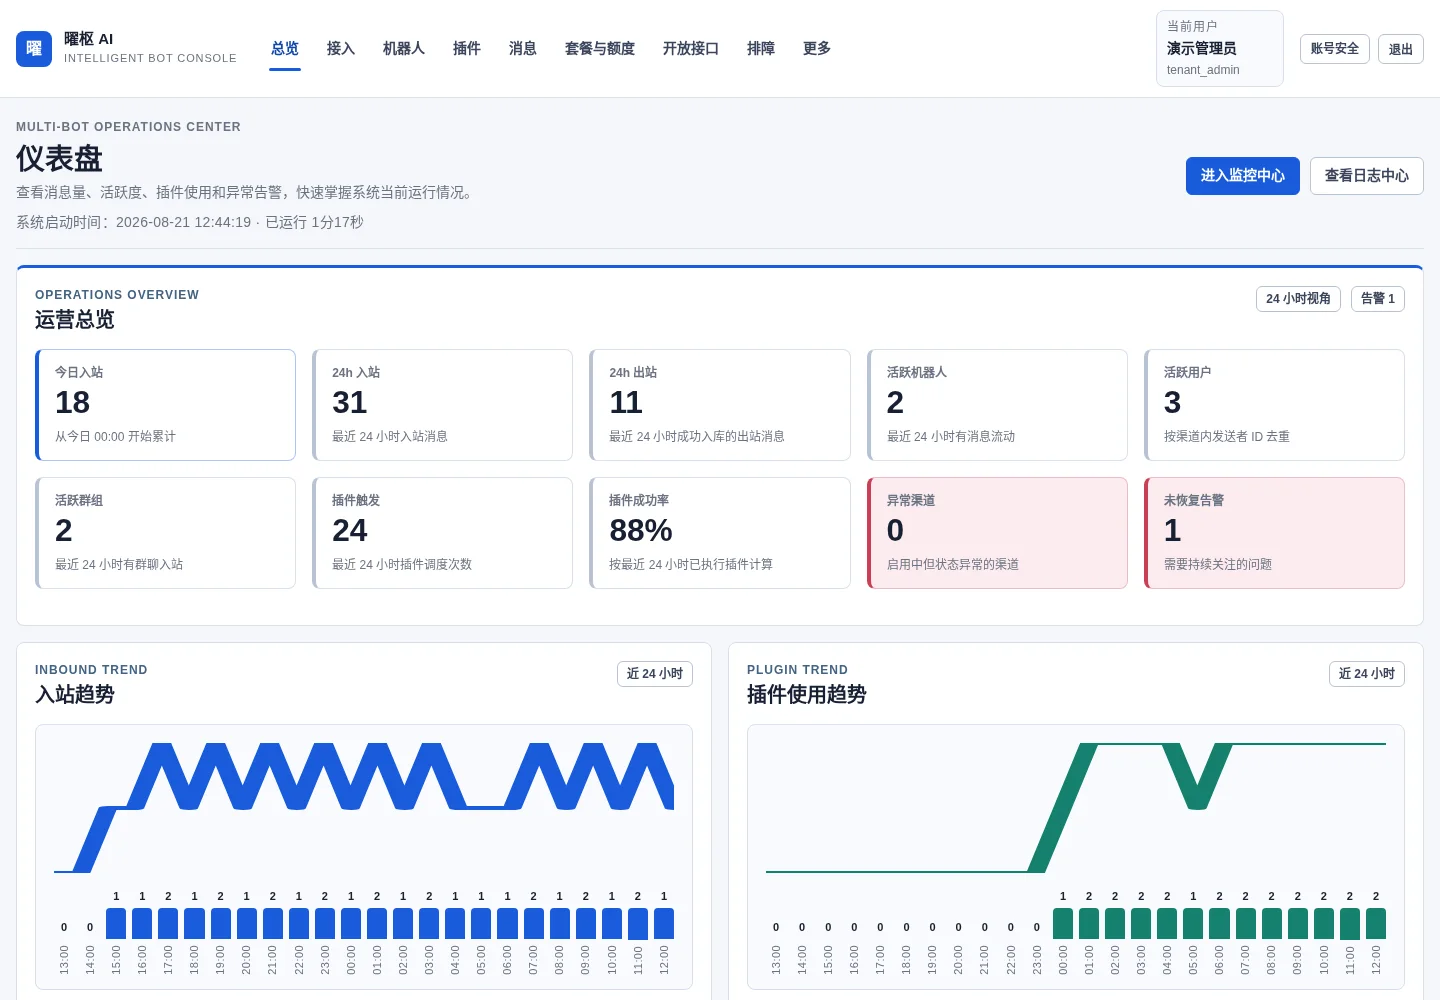
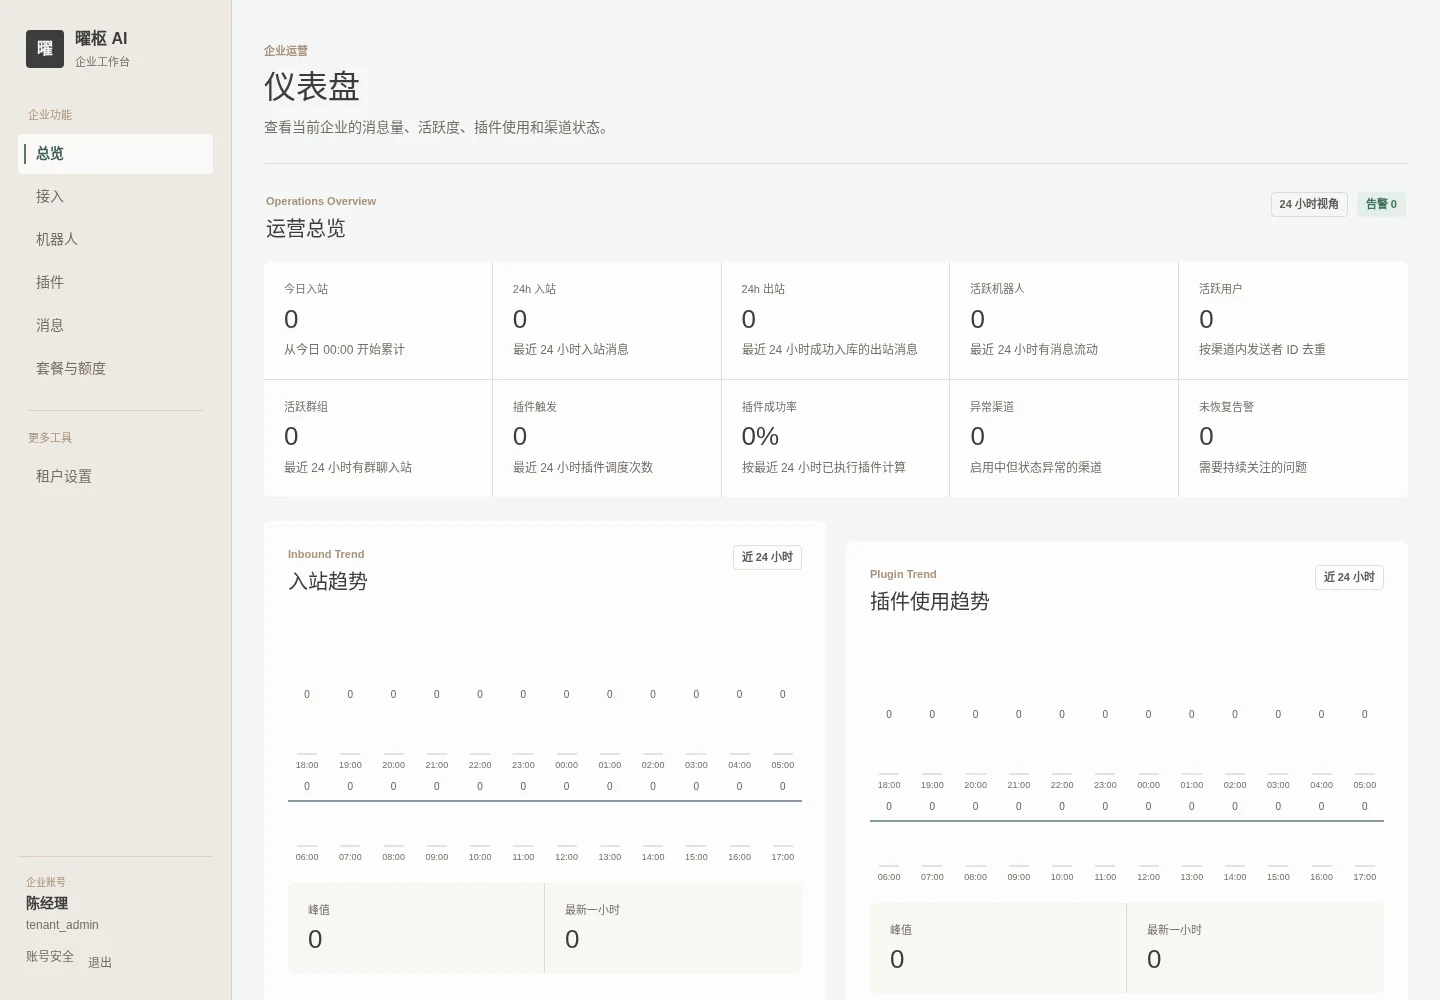
界面：完成北欧极简响应式与视觉收尾
- 更新营销首屏为新版侧边栏企业控制台实景，统一公开站点与后台视觉

- 修复移动端机器人表格整页溢出及空状态截断，保持数据区域独立滚动

- 补齐平台登录页面级标题语义并增加对应视觉契约

- 轻量验证：13 项定向测试通过，桌面与移动端真实页面截图检查通过

diff --git a/app/templates/bots.html b/app/templates/bots.html
@@ -18,7 +18,10 @@
     <span class="chip chip-outline">支持批量启停</span>
   </div>
 
-  {# 批量启停只提交机器人主键；删除动作使用表格外的独立表单，避免 HTML 嵌套表单。 #}
+  {#
+    批量启停只提交机器人主键；删除动作使用表格外的独立表单，避免 HTML 嵌套表单。
+    表格必须放在通用滚动容器内，移动端只滚动数据区域，不能让固定最小宽度把整个页面撑宽。
+  #}
   <form method="post" action="/bots/batch-toggle" id="batch-toggle-bots-form">
     <div class="toolbar">
       <div class="actions">
@@ -27,37 +30,42 @@
       </div>
       <p class="muted-text">勾选机器人后执行批量操作。</p>
     </div>
-    <table class="table">
-      <thead>
-        <tr>
-          <th class="col-id">选择</th>
-          <th>名称</th>
-          <th class="col-status">运行状态</th>
-          <th class="col-count">企业微信账号</th>
-          <th class="col-count">插件</th>
-          <th class="col-bool">启用状态</th>
-          <th class="col-action">操作</th>
-        </tr>
-      </thead>
-      <tbody>
-        {% for row in bot_rows %}
-        <tr>
-          <td class="col-id"><input type="checkbox" name="bot_ids" value="{{ row.bot.id }}" aria-label="选择 {{ row.bot.name }}" /></td>
-          <td><a href="/bots/{{ row.bot.id }}"><strong>{{ row.bot.name }}</strong></a></td>
-          <td class="col-status"><span class="badge badge-{{ row.bot.status|lower }}">{{ row.bot.status }}</span></td>
-          <td class="col-count">{{ row.channel_count }}</td>
-          <td class="col-count">{{ row.binding_count }}</td>
-          <td class="col-bool"><span class="chip {% if row.bot.is_enabled %}chip-success{% else %}chip-muted{% endif %}">{{ '已启用' if row.bot.is_enabled else '已停用' }}</span></td>
-          <td class="actions table-actions">
-            <a class="btn btn-small" href="/bots/{{ row.bot.id }}">详情</a>
-            <button class="btn btn-small btn-danger" type="submit" form="delete-bot-{{ row.bot.id }}">删除</button>
-          </td>
-        </tr>
-        {% else %}
-        <tr><td colspan="7"><div class="empty-state"><strong>当前还没有机器人</strong><p>新建机器人后继续添加企业微信账号。</p></div></td></tr>
-        {% endfor %}
-      </tbody>
-    </table>
+    {% if bot_rows %}
+    <div class="table-scroll">
+      <table class="table">
+        <thead>
+          <tr>
+            <th class="col-id">选择</th>
+            <th>名称</th>
+            <th class="col-status">运行状态</th>
+            <th class="col-count">企业微信账号</th>
+            <th class="col-count">插件</th>
+            <th class="col-bool">启用状态</th>
+            <th class="col-action">操作</th>
+          </tr>
+        </thead>
+        <tbody>
+          {% for row in bot_rows %}
+          <tr>
+            <td class="col-id"><input type="checkbox" name="bot_ids" value="{{ row.bot.id }}" aria-label="选择 {{ row.bot.name }}" /></td>
+            <td><a href="/bots/{{ row.bot.id }}"><strong>{{ row.bot.name }}</strong></a></td>
+            <td class="col-status"><span class="badge badge-{{ row.bot.status|lower }}">{{ row.bot.status }}</span></td>
+            <td class="col-count">{{ row.channel_count }}</td>
+            <td class="col-count">{{ row.binding_count }}</td>
+            <td class="col-bool"><span class="chip {% if row.bot.is_enabled %}chip-success{% else %}chip-muted{% endif %}">{{ '已启用' if row.bot.is_enabled else '已停用' }}</span></td>
+            <td class="actions table-actions">
+              <a class="btn btn-small" href="/bots/{{ row.bot.id }}">详情</a>
+              <button class="btn btn-small btn-danger" type="submit" form="delete-bot-{{ row.bot.id }}">删除</button>
+            </td>
+          </tr>
+          {% endfor %}
+        </tbody>
+      </table>
+    </div>
+    {% else %}
+    {# 空状态脱离固定宽度表格，在窄屏上始终使用当前工作表面的完整可见宽度。 #}
+    <div class="empty-state"><strong>当前还没有机器人</strong><p>新建机器人后继续添加企业微信账号。</p></div>
+    {% endif %}
   </form>
 
   {% for row in bot_rows %}

diff --git a/app/templates/platform_login.html b/app/templates/platform_login.html
@@ -12,7 +12,8 @@
     <div class="section-head auth-card-head">
       <div>
         <p class="section-kicker">Platform Access</p>
-        <h2 id="platform-login-title">平台管理后台</h2>
+        {# 独立平台入口使用页面级主标题，便于辅助技术和搜索工具准确识别当前页面。 #}
+        <h1 id="platform-login-title">平台管理后台</h1>
       </div>
       <span class="chip chip-outline">平台管理员入口</span>
     </div>

diff --git a/app/static/css/style.css b/app/static/css/style.css
@@ -477,6 +477,7 @@ code {
 .section-head h2,
 .toolbar h2,
 .info-panel h3,
+.login-card h1,
 .login-card h2,
 .app-modal-head h2 {
   margin: 0;

diff --git a/tests/test_scandinavian_ui.py b/tests/test_scandinavian_ui.py
@@ -102,6 +102,21 @@ def test_shared_styles_define_mobile_navigation_and_stable_work_surfaces() -> No
     assert ".app-nav-toggle" in stylesheet
 
 
+def test_mobile_data_table_and_platform_login_keep_page_boundaries() -> None:
+    """移动表格只能在自身容器滚动，平台登录页必须保留唯一页面级标题。
+
+    机器人表格有稳定的桌面最小宽度，如果遗漏滚动容器会直接把 390 像素移动视口
+    撑到 720 像素以上。平台登录又使用独立认证壳层，因此需要显式主标题承接页面语义。
+    """
+
+    bots_template = _read_project_file(TEMPLATE_ROOT / "bots.html")
+    platform_login = _read_project_file(TEMPLATE_ROOT / "platform_login.html")
+
+    assert '<div class="table-scroll">' in bots_template
+    assert '<tr><td colspan="7"><div class="empty-state">' not in bots_template
+    assert '<h1 id="platform-login-title">平台管理后台</h1>' in platform_login
+
+
 def test_all_templates_have_migrated_away_from_legacy_card_tokens() -> None:
     """全站模板不得继续引用旧卡片语义或通过内联样式恢复大圆角。
 
